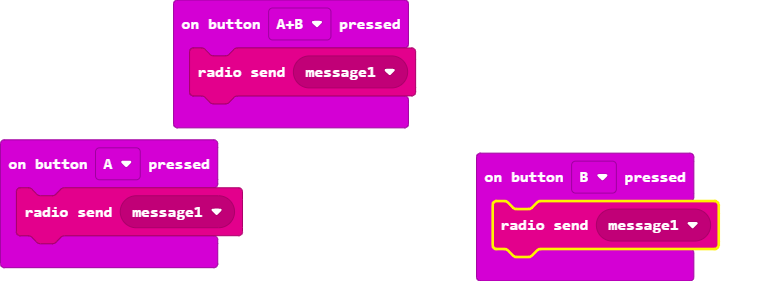
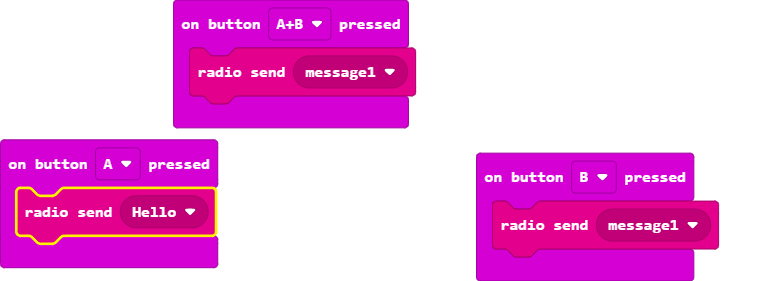
Update main.blocks, main.ts

Changed region(s): [[0.0, 0.6548, 0.3424, 0.8826], [0.6226, 0.6833, 0.9339, 0.9395]]

diff --git a/main.ts b/main.ts
@@ -1,8 +1,9 @@
 enum RadioMessage {
-    message1 = 49434
+    message1 = 49434,
+    Hello = 49337
 }
 input.onButtonPressed(Button.A, function () {
-    radio.sendMessage(RadioMessage.message1)
+    radio.sendMessage(RadioMessage.Hello)
 })
 input.onButtonPressed(Button.AB, function () {
     radio.sendMessage(RadioMessage.message1)
